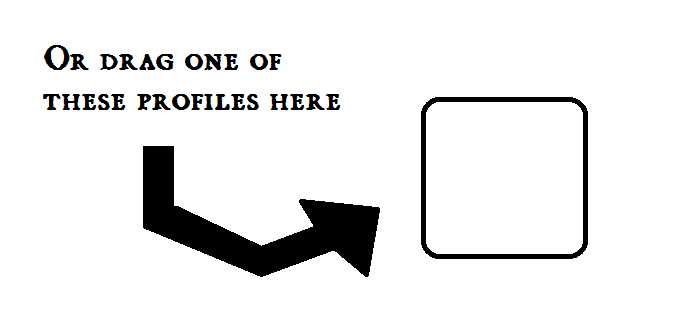
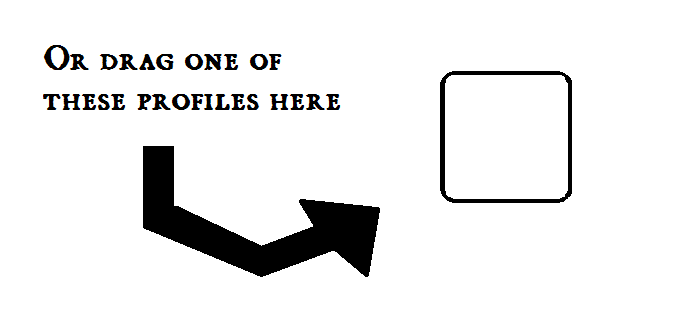
It works!!!
yas

Changed region(s): [[0.6186, 0.2134, 0.866, 0.7927]]

diff --git a/front-end/_site/dragAndDrop.js b/front-end/_site/dragAndDrop.js
@@ -1,6 +1,9 @@
 (function ($) {
     
     var dragImage;
+    var target;
+    var callback;
+    var selectedBox;
     
     var moveObject = function (event) {
         dragImage.offset({
@@ -12,31 +15,43 @@
     var unbindObject = function (event) {
         dragImage.remove();
         $("body").unbind("mousemove", moveObject);
+        selectedBox = null;
     };
     
-    $.fn.dragAndDrop = function (height, width, target) {
+    var createImage = function (event) {
+        selectedBox = $(event.target);
+        dragImage = $(event.target).clone();
+        dragImage[0].width = $(event.target)[0].width;
+        dragImage[0].height = $(event.target)[0].height;
+   
+        $("body").append(dragImage);
+        dragImage.offset({
+            left: event.pageX-dragImage[0].width/2,
+            top: event.pageY-dragImage[0].height/2 
+        });     
+        $("body").mousemove(moveObject);
+    };
+    
+    var dropImage = function (event) {
+        var dropZone = $("#"+target)[0];
+        if(event.pageX>dropZone.x && event.pageX<dropZone.x+dropZone.width){
+            if(event.pageY>dropZone.y && event.pageY<dropZone.y+dropZone.height){
+                if(selectedBox !== null){
+                    callback(selectedBox);
+                }
+            }
+        }        
+        unbindObject(event);
+    }
+    
+    $.fn.dragAndDrop = function (targ, func) {
+        callback=func;
+        target = targ;
+        selectedBox = $(this);
         
         makeUnselectable($(this));
-        
-        this.mousedown(function (event) {
-            
-            dragImage = $(event.target).clone();
-            console.log(dragImage)
-            //dragImage.addClass("dragClone");
-            dragImage[0].width = $(event.target)[0].width;
-            dragImage[0].height = $(event.target)[0].height;
-            console.log(dragImage[0].width/2 + " " +dragImage[0].height/2)
-       
-            $("body").append(dragImage);
-            dragImage.offset({
-                left: event.pageX-dragImage[0].width/2,
-                top: event.pageY-dragImage[0].height/2 
-            });     
-            $("body").mousemove(moveObject);
-            
-        });
-        
-        $("body").mouseup(unbindObject);
+        this.mousedown(createImage);
+        $("body").mouseup(dropImage);
     };
     
     var makeUnselectable = function( $target ) {

diff --git a/front-end/dragAndDrop.js b/front-end/dragAndDrop.js
@@ -1,6 +1,9 @@
 (function ($) {
     
     var dragImage;
+    var target;
+    var callback;
+    var selectedBox;
     
     var moveObject = function (event) {
         dragImage.offset({
@@ -12,31 +15,43 @@
     var unbindObject = function (event) {
         dragImage.remove();
         $("body").unbind("mousemove", moveObject);
+        selectedBox = null;
     };
     
-    $.fn.dragAndDrop = function (height, width, target) {
+    var createImage = function (event) {
+        selectedBox = $(event.target);
+        dragImage = $(event.target).clone();
+        dragImage[0].width = $(event.target)[0].width;
+        dragImage[0].height = $(event.target)[0].height;
+   
+        $("body").append(dragImage);
+        dragImage.offset({
+            left: event.pageX-dragImage[0].width/2,
+            top: event.pageY-dragImage[0].height/2 
+        });     
+        $("body").mousemove(moveObject);
+    };
+    
+    var dropImage = function (event) {
+        var dropZone = $("#"+target)[0];
+        if(event.pageX>dropZone.x && event.pageX<dropZone.x+dropZone.width){
+            if(event.pageY>dropZone.y && event.pageY<dropZone.y+dropZone.height){
+                if(selectedBox !== null){
+                    callback(selectedBox);
+                }
+            }
+        }        
+        unbindObject(event);
+    }
+    
+    $.fn.dragAndDrop = function (targ, func) {
+        callback=func;
+        target = targ;
+        selectedBox = $(this);
         
         makeUnselectable($(this));
-        
-        this.mousedown(function (event) {
-            
-            dragImage = $(event.target).clone();
-            console.log(dragImage)
-            //dragImage.addClass("dragClone");
-            dragImage[0].width = $(event.target)[0].width;
-            dragImage[0].height = $(event.target)[0].height;
-            console.log(dragImage[0].width/2 + " " +dragImage[0].height/2)
-       
-            $("body").append(dragImage);
-            dragImage.offset({
-                left: event.pageX-dragImage[0].width/2,
-                top: event.pageY-dragImage[0].height/2 
-            });     
-            $("body").mousemove(moveObject);
-            
-        });
-        
-        $("body").mouseup(unbindObject);
+        this.mousedown(createImage);
+        $("body").mouseup(dropImage);
     };
     
     var makeUnselectable = function( $target ) {

diff --git a/front-end/_site/script.js b/front-end/_site/script.js
@@ -13,6 +13,7 @@ var playerPreviewList = ["76561198025207102", "76561197967853593", "765611980235
 
 function submit() { // JD: 2, 6
     $('#all').show();
+    $('#intro').hide();
     $(document).ready(function() { // JD: 3, 6, 14, 19
         document.getElementById("main").innerHTML = ""; // JD: 18
         document.getElementById("userInfo").innerHTML = "";
@@ -50,6 +51,9 @@ function submit() { // JD: 2, 6
                 document.getElementById("loader").innerHTML = '<div class="alert alert-danger" role="alert">' 
                 + '<strong>User Could Not Be Found</strong> Please input an existing steam user id</div>';
             }
+        }).fail(function(result) {
+                document.getElementById("loader").innerHTML = '<div class="alert alert-danger" role="alert">' 
+                + '<strong>Could Not Contact Server</strong> Please try again later =/</div>';
         });
 
 
@@ -72,10 +76,14 @@ function loadUserPreviews() {
         for (var i=0; i<result.response.players.length; i++){
             var picture = result.response.players[i].avatarfull;
             picture = newImage("" + picture);
+            picture.sid = result.response.players[i].steamid;
             document.getElementById("previewUsers").appendChild(picture);
         }
 
-        $("#previewUsers").children().dragAndDrop();
+        $("#previewUsers").children().dragAndDrop("intro",function(event){
+            document.getElementById("idform").elements[0].value = event[0].sid;
+            submit();
+        });
     });
 }
 

diff --git a/front-end/script.js b/front-end/script.js
@@ -13,6 +13,7 @@ var playerPreviewList = ["76561198025207102", "76561197967853593", "765611980235
 
 function submit() { // JD: 2, 6
     $('#all').show();
+    $('#intro').hide();
     $(document).ready(function() { // JD: 3, 6, 14, 19
         document.getElementById("main").innerHTML = ""; // JD: 18
         document.getElementById("userInfo").innerHTML = "";
@@ -50,6 +51,9 @@ function submit() { // JD: 2, 6
                 document.getElementById("loader").innerHTML = '<div class="alert alert-danger" role="alert">' 
                 + '<strong>User Could Not Be Found</strong> Please input an existing steam user id</div>';
             }
+        }).fail(function(result) {
+                document.getElementById("loader").innerHTML = '<div class="alert alert-danger" role="alert">' 
+                + '<strong>Could Not Contact Server</strong> Please try again later =/</div>';
         });
 
 
@@ -72,10 +76,14 @@ function loadUserPreviews() {
         for (var i=0; i<result.response.players.length; i++){
             var picture = result.response.players[i].avatarfull;
             picture = newImage("" + picture);
+            picture.sid = result.response.players[i].steamid;
             document.getElementById("previewUsers").appendChild(picture);
         }
 
-        $("#previewUsers").children().dragAndDrop();
+        $("#previewUsers").children().dragAndDrop("intro",function(event){
+            document.getElementById("idform").elements[0].value = event[0].sid;
+            submit();
+        });
     });
 }
 

diff --git a/front-end/_site/index.html b/front-end/_site/index.html
@@ -56,7 +56,10 @@
         <br>
         <br>
         <div class="col-sm-10" id="previewUsers"></div>
-        <img src="./preview.png" draggable = "false" style="-moz-user-select: none;" ondragstart="return false;"> 
+        <div>
+        <img src="./preview.png" id="intro" draggable = "false" 
+        style="-moz-user-select: none;" ondragstart="return false;"> 
+        </div>
         <br><br><br>
         <br><br><br>        
         </div>

diff --git a/front-end/index.html b/front-end/index.html
@@ -56,7 +56,10 @@
         <br>
         <br>
         <div class="col-sm-10" id="previewUsers"></div>
-        <img src="./preview.png" draggable = "false" style="-moz-user-select: none;" ondragstart="return false;"> 
+        <div>
+        <img src="./preview.png" id="intro" draggable = "false" 
+        style="-moz-user-select: none;" ondragstart="return false;"> 
+        </div>
         <br><br><br>
         <br><br><br>        
         </div>

diff --git a/front-end/_site/server.js b/front-end/_site/server.js
@@ -28,6 +28,7 @@ function proxy() { // JD: 2
             } else if (flag === '3') { // JD: 6 (2x)
                 url += RecentlyPlayedGames + sid; // JD: 7
             }
+            console.log(res);
             req.pipe(request(url)).pipe(res);
         });
     });

diff --git a/front-end/server.js b/front-end/server.js
@@ -28,6 +28,7 @@ function proxy() { // JD: 2
             } else if (flag === '3') { // JD: 6 (2x)
                 url += RecentlyPlayedGames + sid; // JD: 7
             }
+            console.log(res);
             req.pipe(request(url)).pipe(res);
         });
     });
